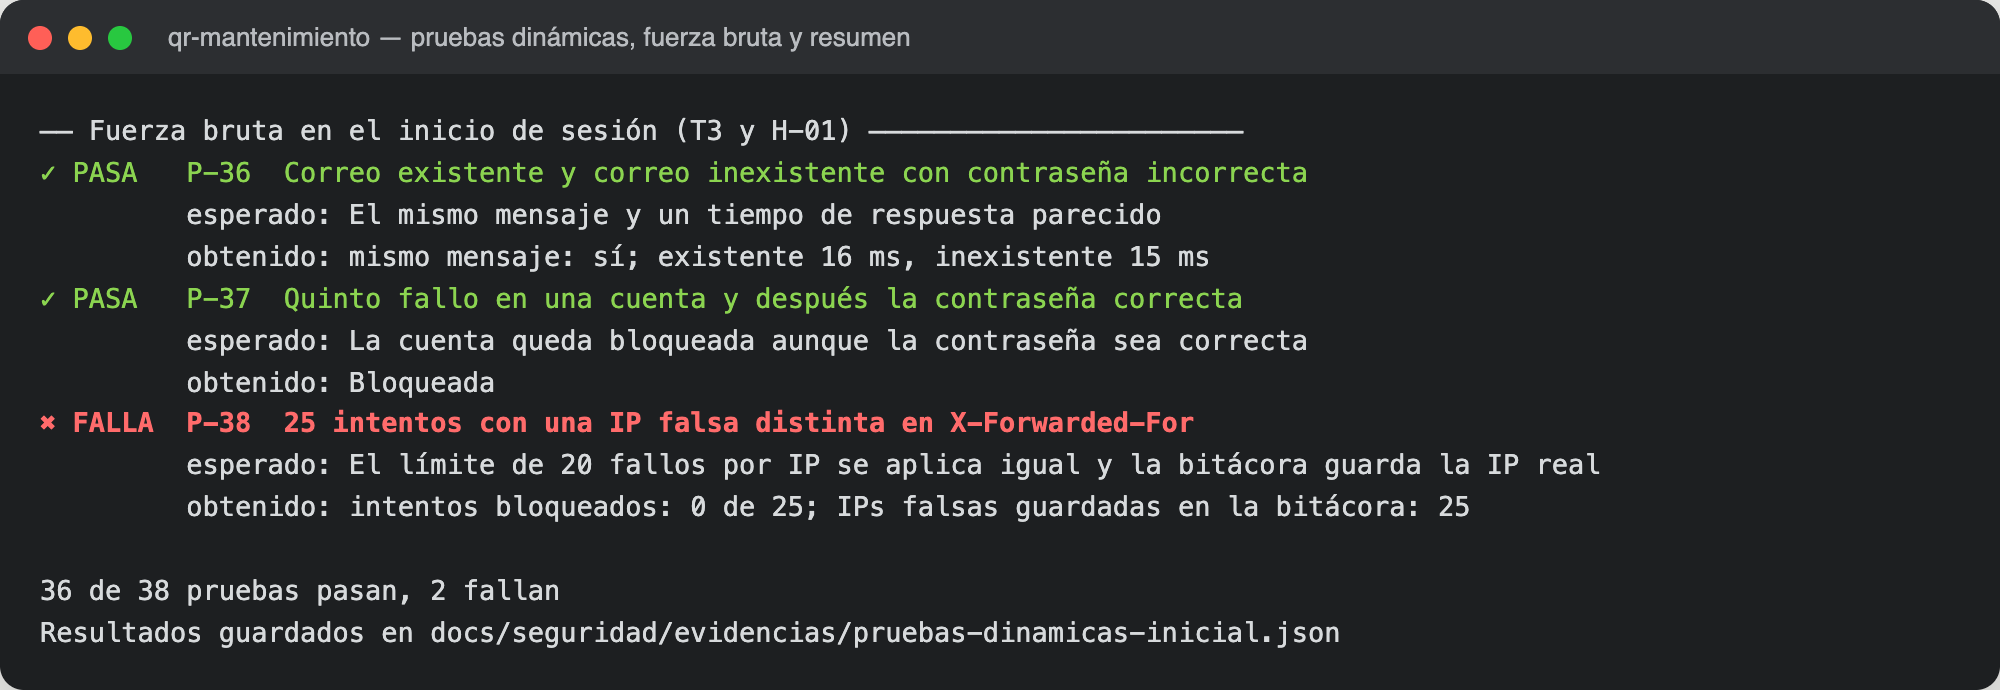
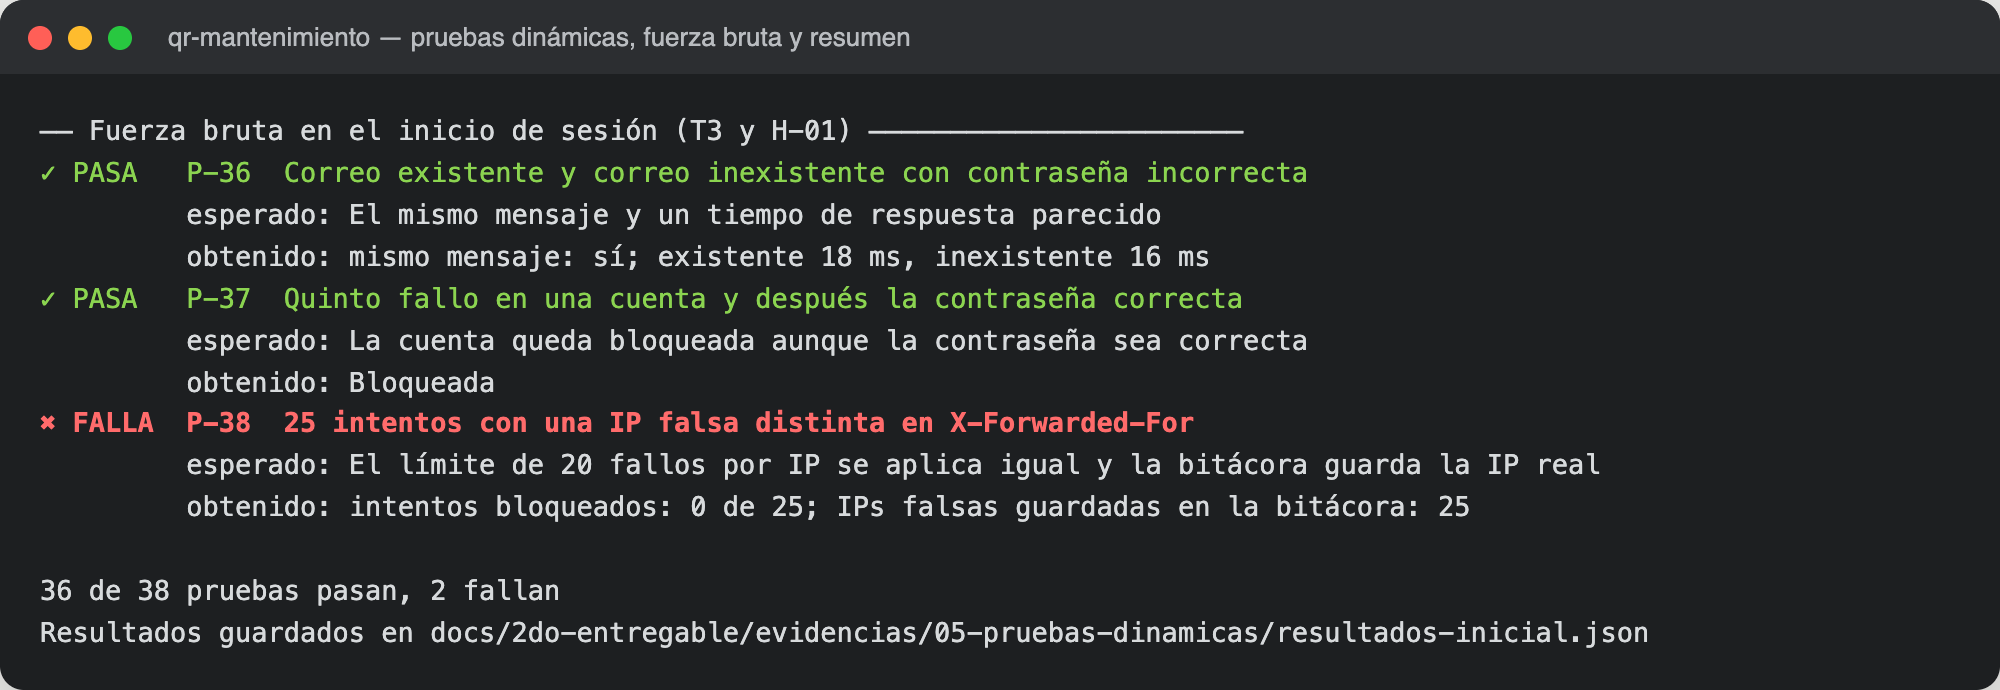
test: volver a correr las pruebas dinamicas con la ruta nueva
Las imagenes mostraban la ruta vieja donde se guardaban los resultados. Repetimos
las pruebas y regeneramos las imagenes con la salida real; el resultado es el mismo.

Changed region(s): [[0.248, 0.8826, 0.837, 0.9435]]

diff --git a/docs/2do-entregable/evidencias/05-pruebas-dinamicas/README.md b/docs/2do-entregable/evidencias/05-pruebas-dinamicas/README.md
@@ -54,7 +54,7 @@ De las 38 pruebas, 36 pasaron y 2 fallaron. Todas las defensas del diseño resis
 ## Observaciones
 
 - En la prueba P-31 enviamos un formulario de 200 kB. El sistema lo rechazó como esperábamos, pero respondió con un error 500 en lugar del 413 que corresponde. No revela información, así que lo dejamos solo como observación.
-- En la prueba P-36 medimos cuánto tarda el inicio de sesión con un correo que existe y con uno que no. Tardaron 16 y 15 milisegundos, así que el tiempo de respuesta no delata qué cuentas existen.
+- En la prueba P-36 medimos cuánto tarda el inicio de sesión con un correo que existe y con uno que no. Tardaron 18 y 16 milisegundos, así que el tiempo de respuesta no delata qué cuentas existen.
 
 ## Archivos de esta carpeta
 
